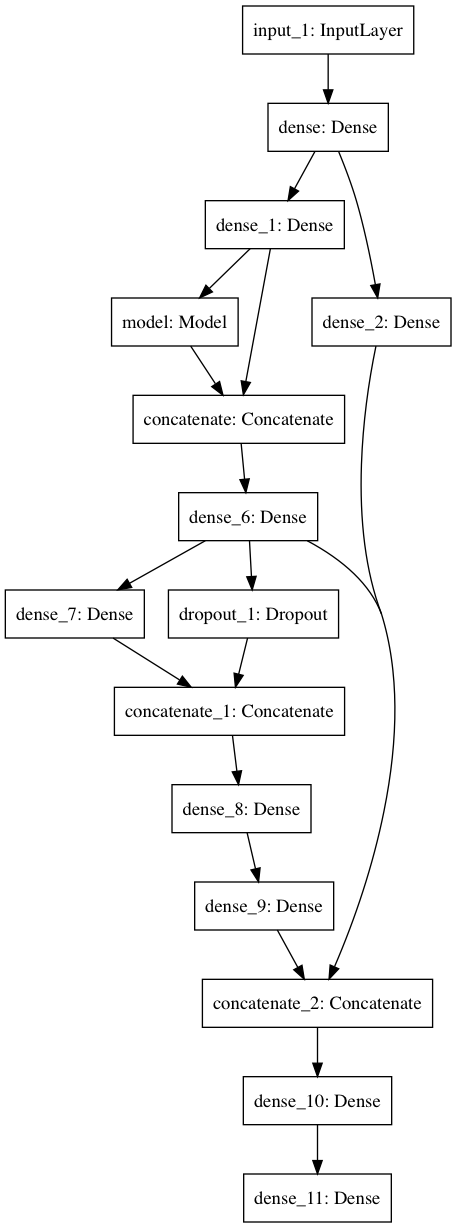
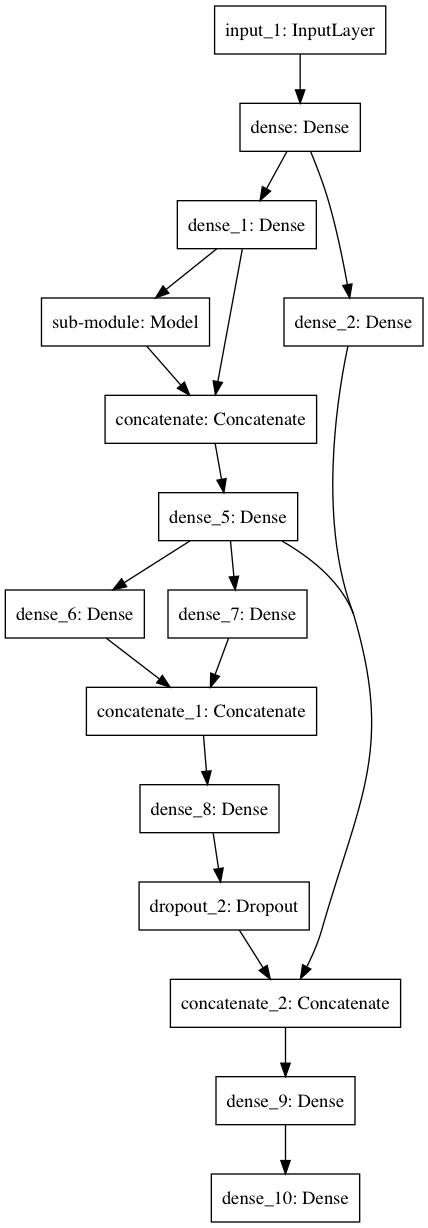
main became a test suite.

diff --git a/tests/test_module_compile.py b/tests/test_module_compile.py
@@ -1,0 +1,134 @@
+import unittest
+
+from tensorflow import keras
+
+from main import random_sample, operators1D
+from modules.dense import DenseS
+from modules.module import Module
+
+
+class TestModuleCompile(unittest.TestCase):
+
+    def test_module_compiles_sequential_model(self):
+        root = Module()
+        root.ID = "Root"
+
+        # Adding operations to graph:
+        root += random_sample(operators1D)()
+        root += random_sample(operators1D)()
+
+        model = root.compile(input=(784,), is_root=True, classes=10)
+        self.assertTrue(isinstance(model, keras.models.Model), "Does not compile sequential model.")
+
+    def test_module_compiles_with_branches(self):
+        root = Module()
+        root.ID = "Root"
+
+        # Adding operations to graph:
+        root += random_sample(operators1D)()
+        root += random_sample(operators1D)()
+        root += random_sample(operators1D)()
+
+        branch_start = root.children[0]
+        branch_op1 = random_sample(operators1D)()
+        branch_op2 = random_sample(operators1D)()
+        branch_end = root.children[1]
+
+        root.insert(branch_start, branch_end, branch_op1)
+        root.insert(branch_op1, branch_end, branch_op2)
+
+        model = root.compile(input=(784,), is_root=True, classes=10)
+        self.assertTrue(isinstance(model, keras.models.Model), "Does not compile model with branches.")
+
+    def test_complex_module_works_with_keras(self):
+        root = Module()
+        root.ID = "Root"
+
+        # Adding operations to graph:
+        root += random_sample(operators1D)()
+        root += random_sample(operators1D)()
+        root += random_sample(operators1D)()
+        root += random_sample(operators1D)()
+
+        # Adding an alternative route to the graph
+        prev = root.children[2]  # Second last
+        end = root.children[3]  # last
+        for i in range(3):
+            op = random_sample(operators1D)()
+            prev.next += [op]
+            op.prev += [prev]
+            root.children += [op]
+            prev = op
+        op.next += [end]
+        end.prev += [op]
+
+        # Testing insert operator
+        root.insert(root.children[5], root.children[2], random_sample(operators1D)())
+        root.insert(root.children[0], root.children[3], random_sample(operators1D)())
+
+        # Testing submodule operator
+        sub_module = Module().append(DenseS()) \
+            .append(random_sample(operators1D)()) \
+            .append(random_sample(operators1D)()) \
+            .append(random_sample(operators1D)())
+        sub_module.ID = "sub-module"
+
+        root.insert(root.children[1], root.children[2], sub_module)
+
+        model = root.compile(input=(784,), is_root=True, classes=10)
+        keras.utils.plot_model(model, to_file='tested_model.png')
+
+        try:
+            run_keras_model(model)
+        except Exception as e:
+            self.fail(msg=e)
+
+
+def run_keras_model(model):
+    def fix(data):
+        import numpy as np
+        return np.reshape(data, (len(data), 784))
+
+    (x_train, y_train), (x_test, y_test) = keras.datasets.mnist.load_data()
+
+    # VALIDATION DATA:
+    x_val = fix(x_train[50000:])
+    y_val = y_train[50000:]
+    x_val = x_val.astype('float32')
+    x_val /= 255
+
+    # TRAINING DATA:
+    x_train = fix(x_train[:50000])
+    y_train = y_train[:50000]
+    x_train = x_train.astype('float32')
+    x_train /= 255
+
+    # TEST DATA:
+    x_test = fix(x_test)
+    x_test = x_test.astype('float32')
+    x_test /= 255
+
+    # for _ in range(10):
+
+    # DEFINING FUNCTIONS AND COMPILING
+    sgd = keras.optimizers.Adam(lr=0.01)
+    loss = keras.losses.categorical_crossentropy
+    model.compile(loss=loss, optimizer=sgd, metrics=['accuracy'])
+
+    # RUNNING TRAINING:
+    training = model.fit(
+        x_train,
+        keras.utils.to_categorical(y_train, num_classes=10),
+        epochs=2,
+        batch_size=64,
+        verbose=0,
+        validation_data=(
+            x_val, keras.utils.to_categorical(y_val, num_classes=10))
+    )
+
+    test_metrics = model.evaluate(x_test, keras.utils.to_categorical(y_test, num_classes=10), verbose=0)
+    print( "\n".join(["{}: {}".format(metric, score) for metric, score in zip(model.metrics_names, test_metrics)]))
+
+
+if __name__ == '__main__':
+    unittest.main()

diff --git a/tests/test_connectivity.py b/tests/test_connectivity.py
@@ -1,0 +1,47 @@
+import unittest
+
+from main import random_sample, operators1D
+from modules.module import Module
+
+
+class TestModuleConnectivity(unittest.TestCase):
+
+    def test_modules_are_appended_correctly(self):
+        root = Module()
+        root.ID = "Root"
+
+        # Adding operations to graph:
+        op1 = random_sample(operators1D)()
+        op2 = random_sample(operators1D)()
+        op3 = random_sample(operators1D)()
+        root += op1
+        root += op2
+        root += op3
+
+        self.assertTrue(op1 not in op3.prev, "Operations that shouldn't be connected are.")
+        self.assertTrue(op2 in op3.prev, "Operation should have been in previous list, but was not.")
+        self.assertTrue(op3 in op2.next, "Operation should have been in next list, but was not.")
+        self.assertTrue(op1 in op3.prev[0].prev, "Operations in module not fully connected.")
+
+def test_modules_are_inserted_correctly(self):
+        root = Module()
+        root.ID = "Root"
+
+        # Adding operations to graph:
+        op1 = random_sample(operators1D)()
+        op2 = random_sample(operators1D)()
+        op3 = random_sample(operators1D)()
+        root += op1
+        root += op3
+
+        self.assertTrue(op2 not in op1.next and op2 not in op3.prev, "Op2 is in list. Test is broken.")
+
+        # Inserting:
+        root.insert(op1, op3, op2)
+
+        self.assertTrue(op2 in op1.next and op2 in op3.prev, "Operation not placed between nodes")
+        self.assertTrue(op1 in op3.prev and op3 in op1.next, "Previous structure broke after insert.")
+
+
+if __name__ == '__main__':
+    unittest.main()

diff --git a/main.py b/main.py
@@ -59,41 +59,4 @@ def test_model(model):
     print("\n".join(["{}: {}".format(metric, score) for metric, score in zip(model.metrics_names, test_metrics)]))
 
 if __name__ == '__main__':
-    root = Module()
-
-    # Adding operations to graph:
-    root += random_sample(operators1D)()
-    root += random_sample(operators1D)()
-    root += random_sample(operators1D)()
-    root += random_sample(operators1D)()
-
-    # Adding an alternative route to the graph
-    prev = root.children[2]  # Second last
-    end = root.children[3]   # last
-    for i in range(3):
-        op = random_sample(operators1D)()
-        prev.next += [op]
-        op.prev += [prev]
-        root.children += [op]
-        prev = op
-    op.next += [end]
-    end.prev += [op]
-
-
-    # Testing insert operator
-    root.insert(root.children[5], root.children[2], random_sample(operators1D)())
-    root.insert(root.children[0], root.children[3], random_sample(operators1D)())
-
-    # Testing submodule operator
-    sub_module = Module().append(DenseS())    \
-        .append(random_sample(operators1D)()) \
-        .append(random_sample(operators1D)()) \
-        .append(random_sample(operators1D)())
-
-    root.insert(root.children[1], root.children[2], sub_module)
-
-    print(root)
-    # root.visualize()
-    model = root.compile(input=(784,), is_root=True, classes=10)
-    keras.utils.plot_model(model, to_file='model.png')
-    test_model(model)
+    pass

diff --git a/modules/module.py b/modules/module.py
@@ -158,7 +158,7 @@ class Module(Base):
 
 
         out =  keras.layers.Dense(units=classes, activation="softmax")(end) if is_root else end
-        self.keras_operation = keras.models.Model(inputs=[input],outputs=[out])
+        self.keras_operation = keras.models.Model(inputs=[input],outputs=[out], name=self.ID)
         self.keras_tensor = self.keras_operation.layers[-1].output
         return self.keras_operation
 
